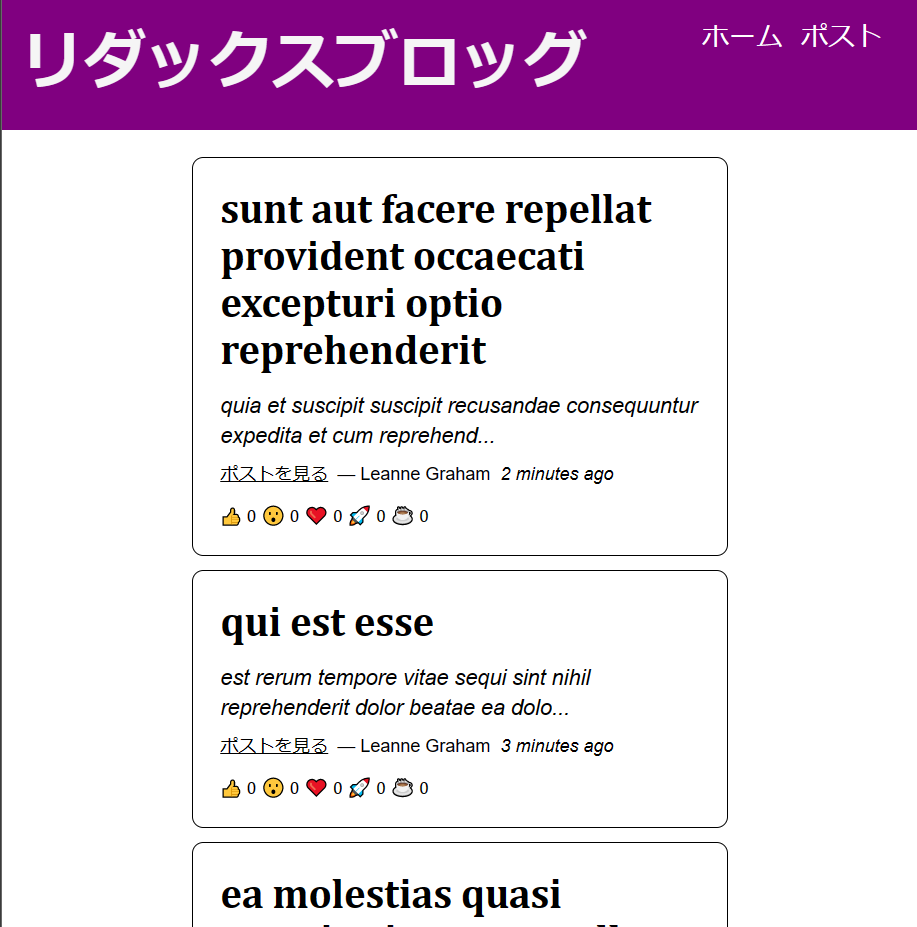
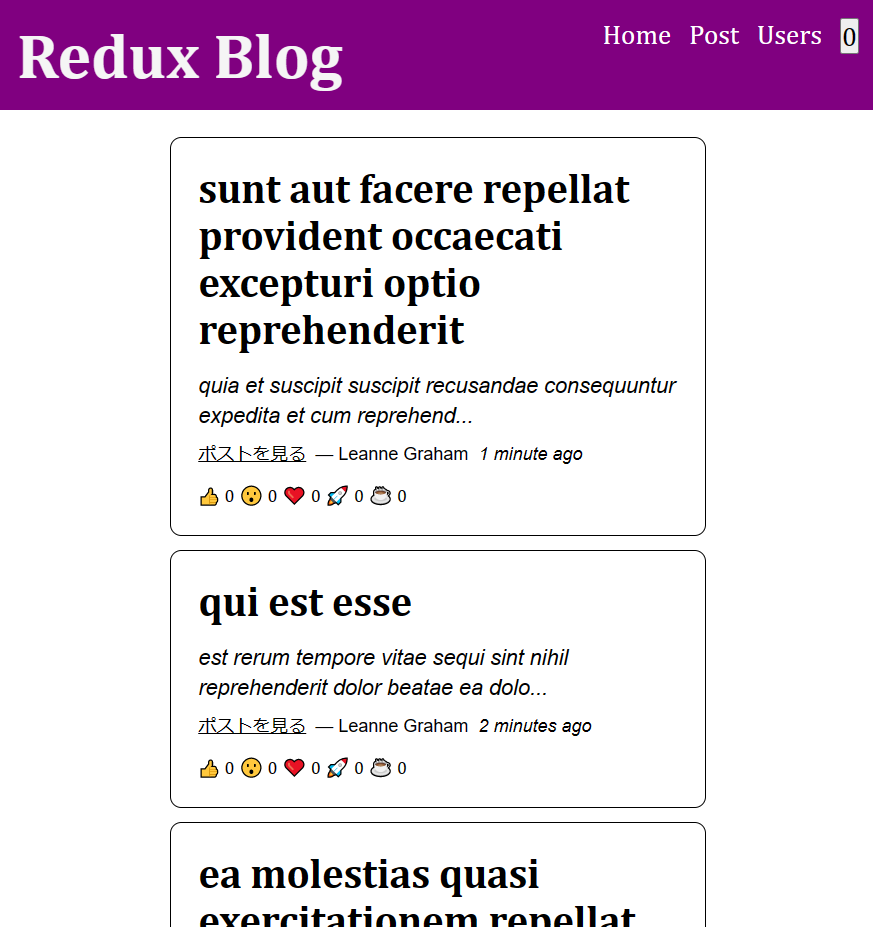
Added Users list and optimizations.

diff --git a/src/features/posts/postsSlice.js b/src/features/posts/postsSlice.js
@@ -1,14 +1,23 @@
-import { createSlice, nanoid, createAsyncThunk } from "@reduxjs/toolkit";
+import {
+  createSlice,
+  createAsyncThunk,
+  createSelector,
+  createEntityAdapter,
+} from "@reduxjs/toolkit";
 import { sub } from "date-fns";
 import axios from "axios";
 
 const POST_URL = "https://jsonplaceholder.typicode.com/posts";
 
-const initialState = {
-  posts: [],
+const postsAdapter = createEntityAdapter({
+  sortComparer: (a, b) => b.date.localeCompare(a.date),
+});
+
+const initialState = postsAdapter.getInitialState({
   status: "idle",
   error: null,
-};
+  count: 0,
+});
 
 export const fetchPosts = createAsyncThunk("posts/fetchPosts", async () => {
   try {
@@ -63,35 +72,15 @@ const postsSlice = createSlice({
   name: "posts",
   initialState,
   reducers: {
-    postAdded: {
-      reducer(state, action) {
-        state.posts.push(action.payload);
-      },
-      prepare(title, content, userId) {
-        return {
-          payload: {
-            id: nanoid(),
-            title,
-            content,
-            date: new Date().toISOString(),
-            userId,
-            reactions: {
-              thumbsUp: 0,
-              wow: 0,
-              heart: 0,
-              rocket: 0,
-              coffee: 0,
-            },
-          },
-        };
-      },
-    },
     reactionAdded(state, action) {
       const { postId, reaction } = action.payload;
-      const existingPost = state.posts.find((post) => post.id === postId);
+      const existingPost = state.entities[postId];
       if (existingPost) {
         existingPost.reactions[reaction]++;
       }
+    },
+    increaseCount(state, action) {
+      state.count = state.count + 1;
     },
   },
   extraReducers(builder) {
@@ -116,8 +105,7 @@ const postsSlice = createSlice({
           return post;
         });
 
-        state.posts = loadedPosts;
-        // state.posts = state.posts.concat(loadedPosts);
+        postsAdapter.upsertMany(state, loadedPosts);
       })
       .addCase(fetchPosts.rejected, (state, action) => {
         state.status = "failed";
@@ -133,7 +121,7 @@ const postsSlice = createSlice({
           rocket: 0,
           coffee: 0,
         };
-        state.posts.push(action.payload);
+        postsAdapter.addOne(state, action.payload);
       })
       .addCase(updatePost.fulfilled, (state, action) => {
         if (!action.payload?.id) {
@@ -141,10 +129,8 @@ const postsSlice = createSlice({
           console.log(action.payload);
           return;
         }
-        const { id } = action.payload;
         action.payload.date = new Date().toISOString();
-        const posts = state.posts.filter((post) => post.id !== id);
-        state.posts = [...posts, action.payload];
+        postsAdapter.upsertOne(state, action.payload);
       })
       .addCase(deletePost.fulfilled, (state, action) => {
         if (!action.payload?.id) {
@@ -153,19 +139,32 @@ const postsSlice = createSlice({
           return;
         }
         const { id } = action.payload;
-        const posts = state.posts.filter((post) => post.id !== id);
-        state.posts = posts;
+        postsAdapter.removeOne(state, id);
       });
   },
 });
 
-export const selectAllPosts = (state) => state.posts.posts;
+// getSelectors - generates these selectors (then added aliases)
+export const {
+  selectAll: selectAllPosts,
+  selectById: selectPostById,
+  selectIds: selectPostIds,
+  // Pass in a selector that returns the posts slice of state
+} = postsAdapter.getSelectors((state) => state.posts);
+
+const selectPostUserId = (state, userId) => userId;
+
 export const getPostsStatus = (state) => state.posts.status;
 export const getPostsError = (state) => state.posts.error;
+export const getCount = (state) => state.posts.count;
 
-export const selectPostById = (state, postId) =>
-  state.posts.posts.find((post) => post.id === postId);
+// Memoized selector function - accepts INPUT selector/s (like dependency array)
+// and OUTPUT (manipulates extracted value from input selectors)
+export const selectPostByUser = createSelector(
+  [selectAllPosts, selectPostUserId],
+  (posts, userId) => posts.filter((post) => post.userId === userId)
+);
 
-export const { postAdded, reactionAdded } = postsSlice.actions;
+export const { increaseCount, reactionAdded } = postsSlice.actions;
 
 export default postsSlice.reducer;

diff --git a/src/App.js b/src/App.js
@@ -3,13 +3,14 @@ import PostsList from "./features/posts/PostsList";
 import AddPostForm from "./features/posts/AddPostForm";
 import SinglePostPage from "./features/posts/SinglePostPage";
 import EditPostForm from "./features/posts/EditPostForm";
-import { Routes, Route } from "react-router-dom";
+import UsersList from "./features/users/UsersList";
+import UserPage from "./features/users/UserPage";
+import { Routes, Route, Navigate } from "react-router-dom";
 
 function App() {
   return (
     <Routes>
       <Route path="/" element={<Layout />}>
-
         <Route index element={<PostsList />} />
 
         <Route path="post">
@@ -17,7 +18,14 @@ function App() {
           <Route path=":postId" element={<SinglePostPage />} />
           <Route path="edit/:postId" element={<EditPostForm />} />
         </Route>
-        
+
+        <Route path="user">
+          <Route index element={<UsersList />} />
+          <Route path=":userId" element={<UserPage />} />
+        </Route>
+
+        {/* Used to navigate back to the Home page (replaceable with 404 component) */}
+        <Route path="*" element={<Navigate to="/" replace />} />
       </Route>
     </Routes>
   );

diff --git a/src/features/posts/PostsList.jsx b/src/features/posts/PostsList.jsx
@@ -1,9 +1,9 @@
 import { useSelector } from "react-redux";
-import { selectAllPosts, getPostsStatus, getPostsError } from "./postsSlice";
+import { selectPostIds, getPostsStatus, getPostsError } from "./postsSlice";
 import PostsExcerpt from "./PostsExcerpt";
 
 const PostsList = () => {
-  const posts = useSelector(selectAllPosts);
+  const orderedPostIds = useSelector(selectPostIds);
   const postStatus = useSelector(getPostsStatus);
   const error = useSelector(getPostsError);
 
@@ -11,11 +11,8 @@ const PostsList = () => {
   if (postStatus === "loading") {
     content = <p>Loading...</p>;
   } else if (postStatus === "succeeded") {
-    const orderedPosts = posts
-      .slice()
-      .sort((a, b) => b.date.localeCompare(a.date));
-    content = orderedPosts.map((post) => (
-      <PostsExcerpt key={post.id} post={post} />
+    content = orderedPostIds.map((postId) => (
+      <PostsExcerpt key={postId} postId={postId} />
     ));
   } else if (postStatus === "failed") {
     content = <p>{error}</p>;

diff --git a/src/components/Header.jsx b/src/components/Header.jsx
@@ -1,16 +1,21 @@
 import { Link } from "react-router-dom";
-
-import React from "react"
+import { useDispatch, useSelector } from "react-redux";
+import { increaseCount, getCount } from "../features/posts/postsSlice";
 
 const Header = () => {
+  const dispatch = useDispatch();
+  const count = useSelector(getCount);
+
   return (
     <header className="Header">
-      <h1>リダックスブロッグ</h1>
+      <h1>Redux Blog</h1>
       <nav>
         <ul>
-          <li><Link to="/">ホーム</Link></li>
-          <li><Link to="post">ポスト</Link></li>
+          <li><Link to="/">Home</Link></li>
+          <li><Link to="post">Post</Link></li>
+          <li><Link to="user">Users</Link></li>
         </ul>
+        <button onClick={() => dispatch(increaseCount())}>{count}</button>
       </nav>
     </header>
   )

diff --git a/src/features/users/UserPage.jsx b/src/features/users/UserPage.jsx
@@ -1,0 +1,28 @@
+import { useSelector } from "react-redux";
+import { selectUserById } from "./usersSlice";
+import { selectPostByUser } from "../posts/postsSlice";
+import { Link, useParams } from "react-router-dom";
+
+const UserPage = () => {
+  const { userId } = useParams();
+  const user = useSelector((state) => selectUserById(state, Number(userId)));
+
+  const userPosts = useSelector((state) =>
+    selectPostByUser(state, Number(userId))
+  );
+
+  const postTitles = userPosts.map((post) => (
+    <li key={post.id}>
+      <Link to={`/post/${post.id}`}>{post.title}</Link>
+    </li>
+  ));
+
+  return (
+    <section>
+      <h2>{user?.name}</h2>
+      <ol>{postTitles}</ol>
+    </section>
+  );
+};
+
+export default UserPage;

diff --git a/src/features/users/UsersList.jsx b/src/features/users/UsersList.jsx
@@ -1,0 +1,22 @@
+import { useSelector } from "react-redux";
+import { selectAllUsers } from "./usersSlice";
+import { Link } from "react-router-dom";
+
+const UsersList = () => {
+  const users = useSelector(selectAllUsers);
+
+  const renderedUsers = users.map((user) => (
+    <li key={user.id}>
+      <Link to={`/user/${user.id}`}>{user.name}</Link>
+    </li>
+  ));
+
+  return (
+    <section>
+      <h2>ユーザース</h2>
+      <ul>{renderedUsers}</ul>
+    </section>
+  );
+};
+
+export default UsersList;

diff --git a/src/features/posts/PostsExcerpt.jsx b/src/features/posts/PostsExcerpt.jsx
@@ -2,8 +2,12 @@ import PostAuthor from "./PostAuthor";
 import TimeAgo from "./TimeAgo";
 import ReactionButtons from "./ReactionButtons";
 import { Link } from "react-router-dom";
+import { useSelector } from "react-redux";
+import { selectPostById } from "./postsSlice";
 
-const PostsExcerpt = ({ post }) => {
+const PostsExcerpt = ({ postId }) => {
+  const post = useSelector((state) => selectPostById(state, postId));
+  
   return (
     <article>
       <h2>{post.title}</h2>

diff --git a/public/index.html b/public/index.html
@@ -10,7 +10,7 @@
       content="Web site created using create-react-app"
     />
     <link rel="apple-touch-icon" href="%PUBLIC_URL%/logo192.png" />
-    <title>Chapter 4</title>
+    <title>Chapter 5</title>
   </head>
   <body>
     <noscript>You need to enable JavaScript to run this app.</noscript>

diff --git a/src/features/users/usersSlice.js b/src/features/users/usersSlice.js
@@ -27,4 +27,7 @@ const usersSlice = createSlice({
 
 export const selectAllUsers = (state) => state.users;
 
+export const selectUserById = (state, userId) =>
+  state.users.find((user) => user.id === userId);
+
 export default usersSlice.reducer;

diff --git a/README.md b/README.md
@@ -1,22 +1,18 @@
-# Chapter 3
+# Chapter 5
 
-This chapter focused on refactoring the previous sample project to support CRUD operations.
-
-For the backend API, we used [JSON Placeholder | A Free fake API for testing and prototyping](https://jsonplaceholder.typicode.com/).
+This chapter focused on applying optimization techniques to improve the performance of the previous sample project.
 
 ## Home (Posts)
 ![Posts](./public/screen-capture-1.png)
 
-## Add Post
-![Add Post](./public/screen-capture-2.png)
+## Users
+![Users](./public/screen-capture-2.png)
 
-## View Post
-![View Post](./public/screen-capture-3.png)
-
-## Edit Post
-![Edit Post](./public/screen-capture-4.png)
+## User's Posts
+![Users's Posts](./public/screen-capture-3.png)
 
 
 Topics covered:
-* React Router
-* CRUD Operations
+* Use of `createEntityAdapter` to define an entity with predefined methods
+* Use of `createSelector` to create memoized selectors
+* Use of `getSelectors` to generate selectors by the created entity
